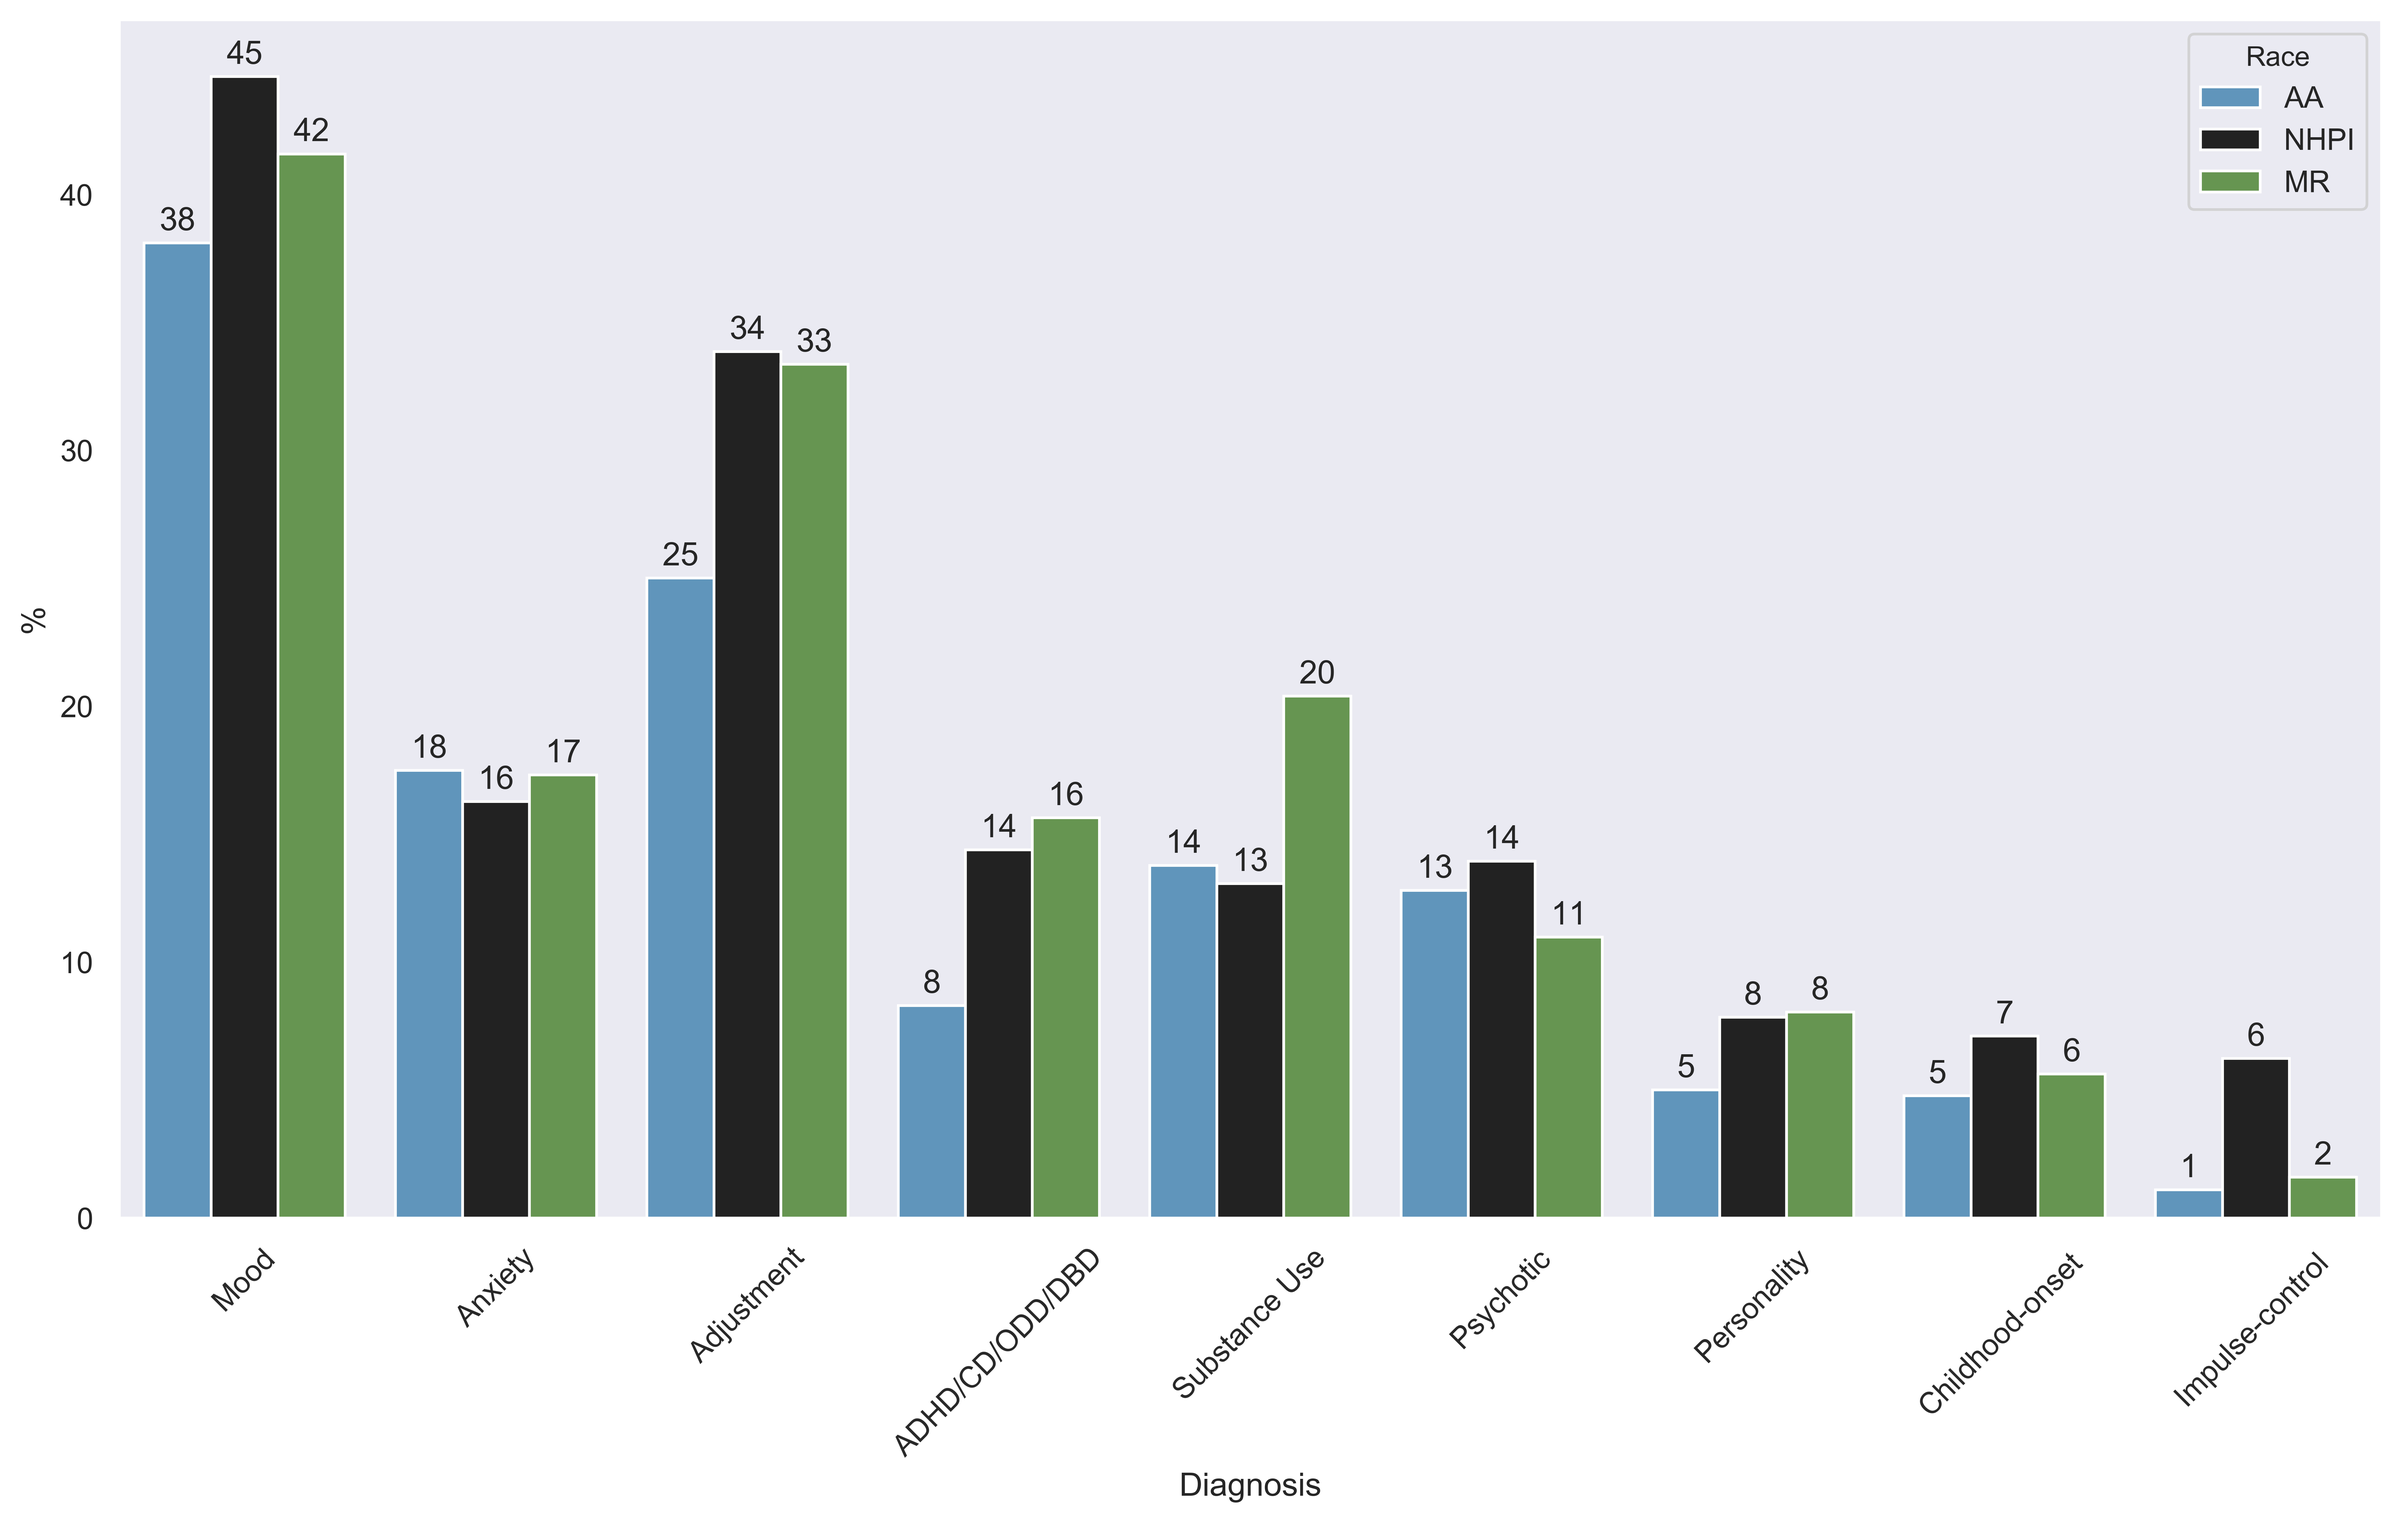
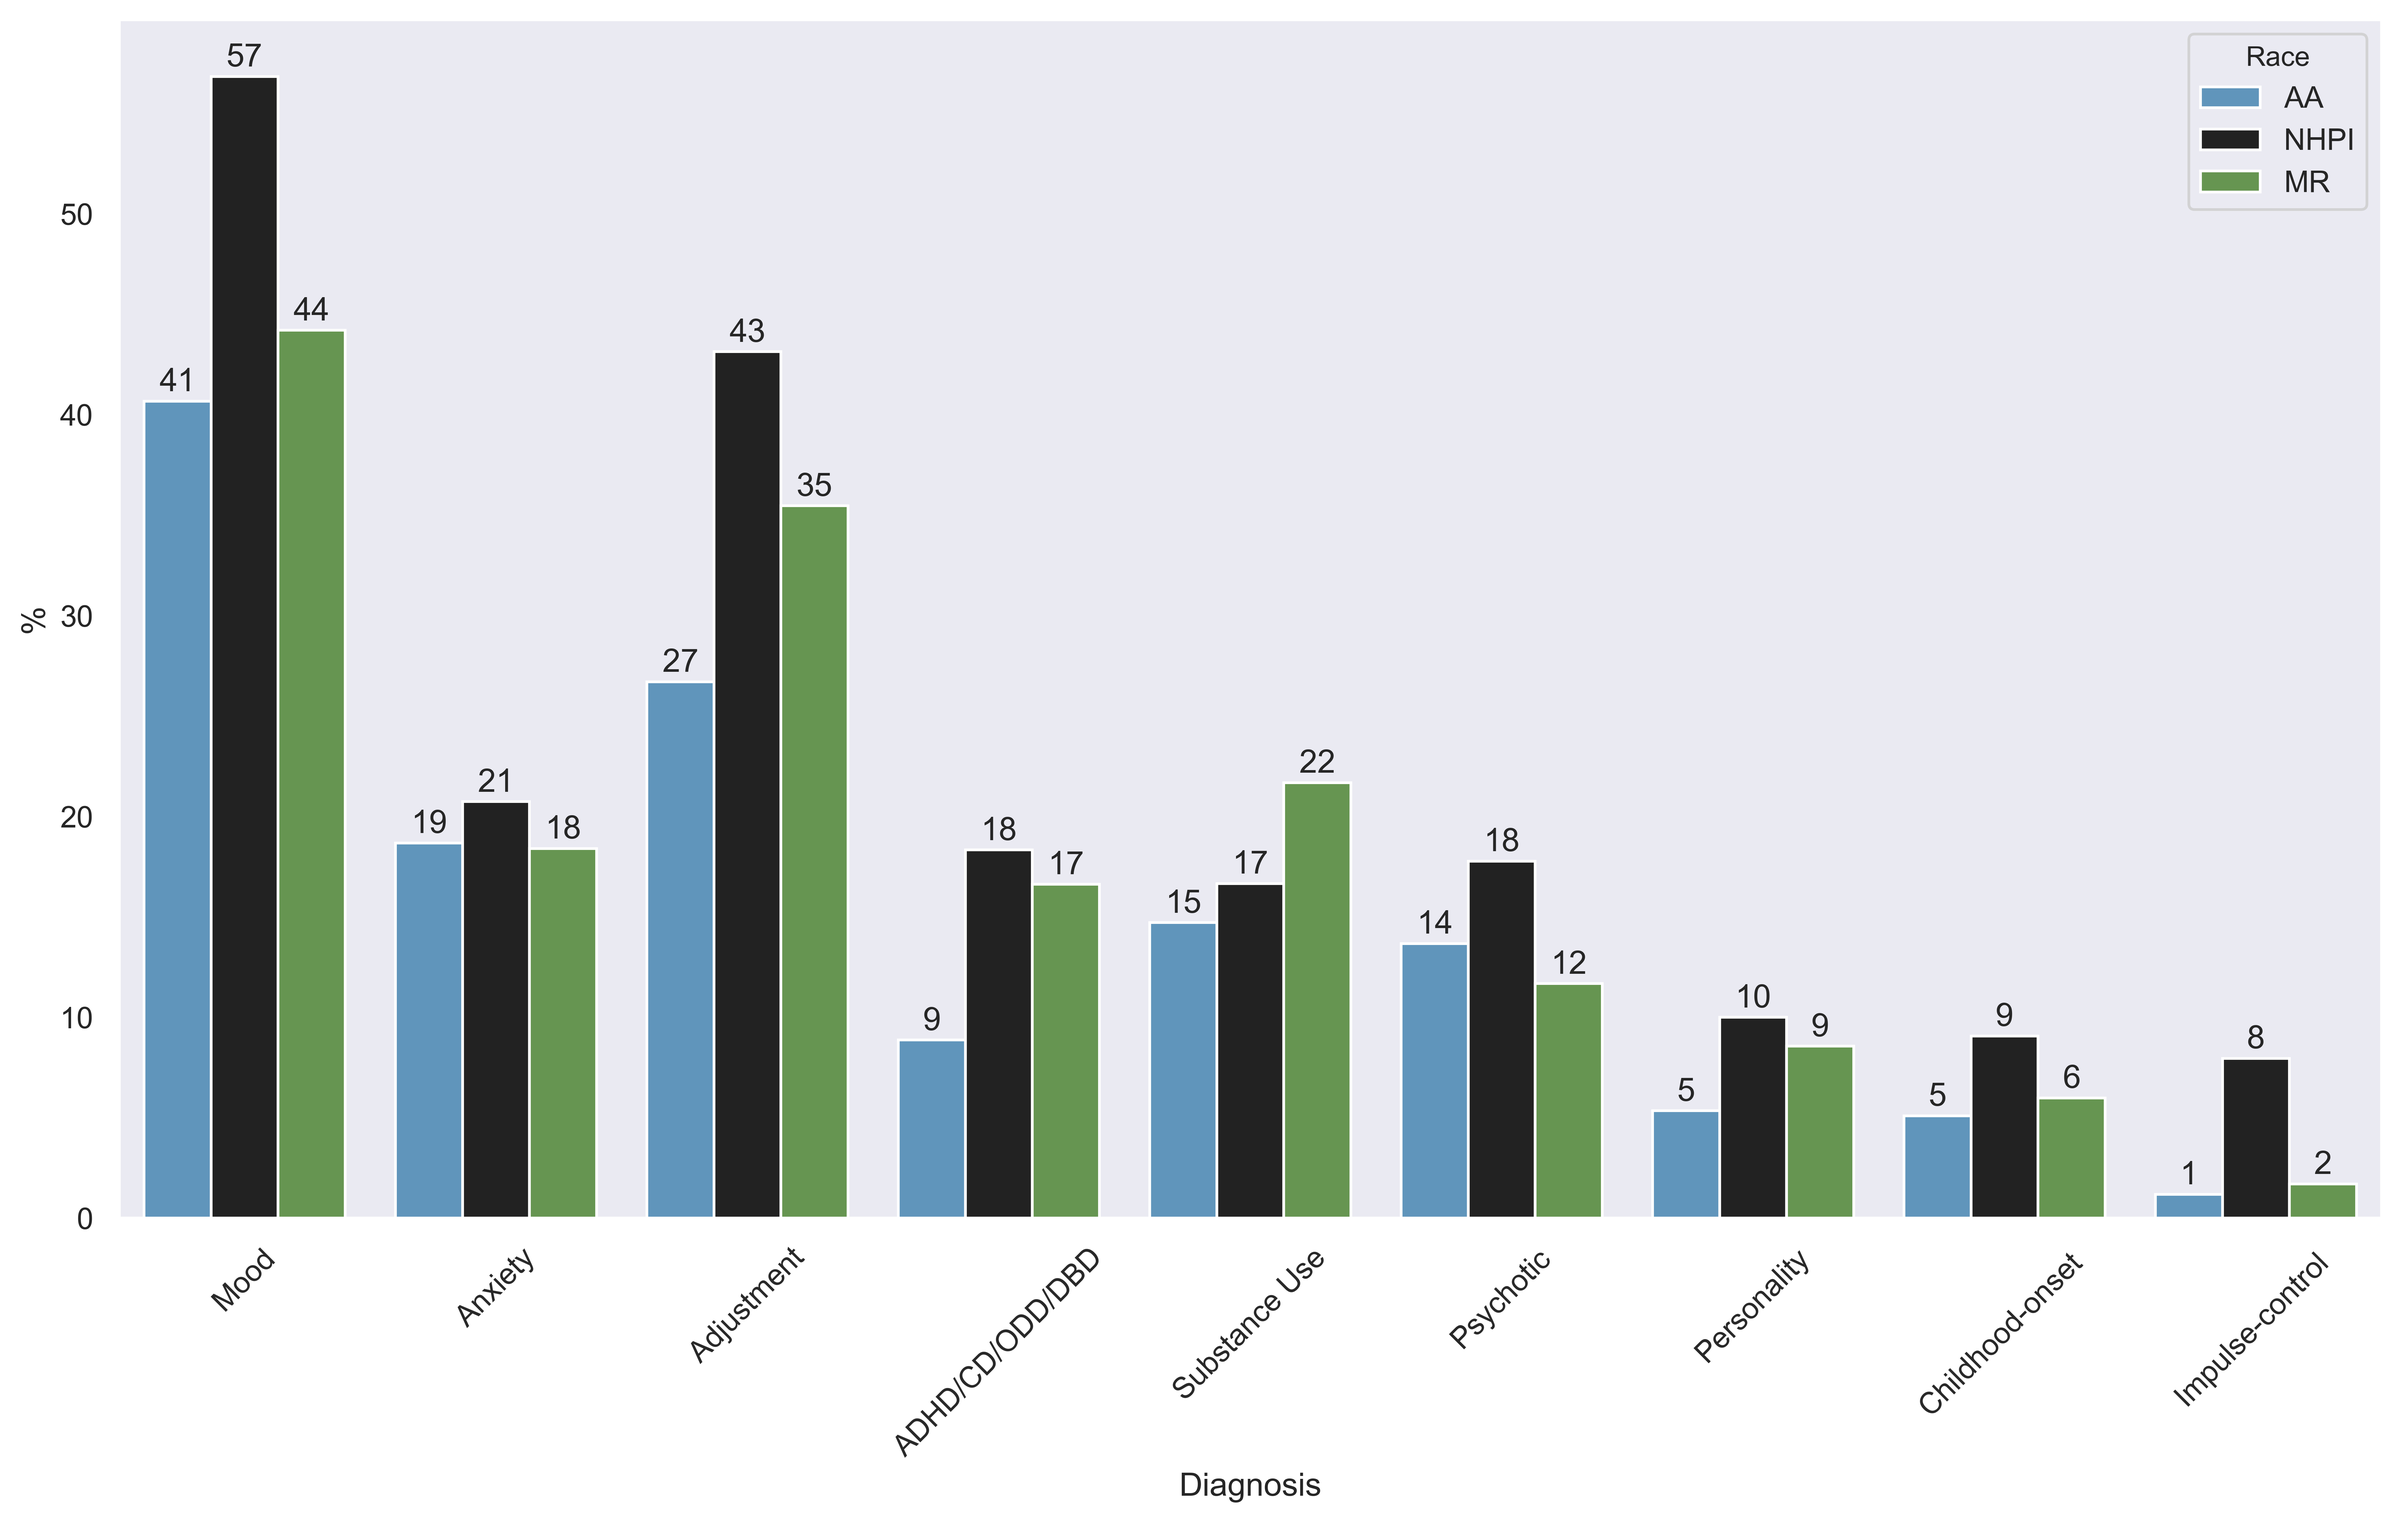
test

diff --git a/src/modules/table1/table1.py b/src/modules/table1/table1.py
@@ -61,7 +61,7 @@ def fetchTable1MD(logger, df):
 
         tableString += "### Overview\n"
         for item in ['race','age','sex']: #,'visit_type'
-            tableString += "####" + item + "\n\n"
+            tableString += "#### " + item + "\n\n"
             out = df[item].value_counts().compute().to_frame()
             out = out.transpose()
             tableString += tabulate(out, tablefmt="pipe", headers="keys", showindex=False)

diff --git a/docs/report.md b/docs/report.md
@@ -2,39 +2,39 @@
 ## Table 1: Selected Characteristics
 Selected characteristics of Asian Americans, Native Hawaiians/Pacific Islanders, and mixed-race people.
 ### Overview
-####race
+#### race
 
 |   **M**R |   AA |   NHPI |
 |-----:|-----:|-------:|
-| 3176 | 2154 |    688 |
+| 2988 | 2018 |    540 |
 
-####Age
+#### Age
 
 |   **18-34** |   **35-49** |   **12-17** |   **50+** |   **1-11** |
 |--------:|--------:|--------:|------:|-------:|
-|    1798 |    1170 |    1140 |  1008 |    902 |
+|    1611 |    1077 |    1077 |   923 |    858 |
 
-####Sex
+#### Sex
 
 |    **F** |    **M** |   **Others** |
 |-----:|-----:|---------:|
-| 3203 | 2806 |        9 |
+| 2982 | 2561 |        3 |
 
 ### Age-Race
 | Age   | **M**R               | AA               | NHPI             |
 |:------|:-----------------|:-----------------|:-----------------|
-| **1-11**  | 19.3 (17.9-20.7) | 8.9 (7.7-10.1)   | 14.1 (11.5-16.7) |
-| **12-17** | 20.2 (18.8-21.6) | 14.7 (13.2-16.2) | 26.3 (23.0-29.6) |
-| **18-34** | 27.5 (25.9-29.0) | 35.2 (33.2-37.3) | 24.3 (21.1-27.5) |
-| **35-49** | 17.1 (15.8-18.4) | 23.4 (21.6-25.1) | 18.2 (15.3-21.0) |
-| **50+**   | 15.9 (14.7-17.2) | 17.8 (16.2-19.4) | 17.2 (14.3-20.0) |
+| **18-34** | 26.5 (24.9-28.1) | 34.3 (32.2-36.4) | 23.7 (20.1-27.3) |
+| **50+**   | 15.3 (14.0-16.6) | 18.0 (16.4-19.7) | 18.7 (15.4-22.0) |
+| **35-49** | 16.9 (15.6-18.2) | 23.5 (21.7-25.4) | 18.0 (14.7-21.2) |
+| **1-11**  | 20.0 (18.6-21.5) | 9.1 (7.8-10.3)   | 14.1 (11.1-17.0) |
+| **12-17** | 21.3 (19.8-22.7) | 15.1 (13.5-16.6) | 25.6 (21.9-29.2) |
 
 ### Sex-Race 
 | Sex    | **M**R               | AA               | NHPI             |
 |:-------|:-----------------|:-----------------|:-----------------|
-| **F**      | 52.3 (50.6-54.0) | 55.4 (53.3-57.5) | 50.6 (46.8-54.3) |
-| **M**      | 47.6 (45.8-49.3) | 44.5 (42.4-46.6) | 48.8 (45.1-52.6) |
-| **Others** | 0.1 (0.0-0.2)    | 0.0 (-0.0-0.1)   | 0.6 (0.0-1.1)    |
+| **M**      | 47.3 (45.5-49.0) | 44.0 (41.8-46.2) | 48.3 (44.1-52.5) |
+| **F**      | 52.6 (50.9-54.4) | 56.0 (53.8-58.2) | 51.7 (47.5-55.9) |
+| **Others** | 0.1 (-0.0-0.2)   | nan              | nan              |
 ## Figure 1: DSM-IV
 DSM-IV mental diagnoses among Asian Americans, Native Hawaiians/Pacific Islanders, and mixed-race people.
 ![image](figure1.png)
